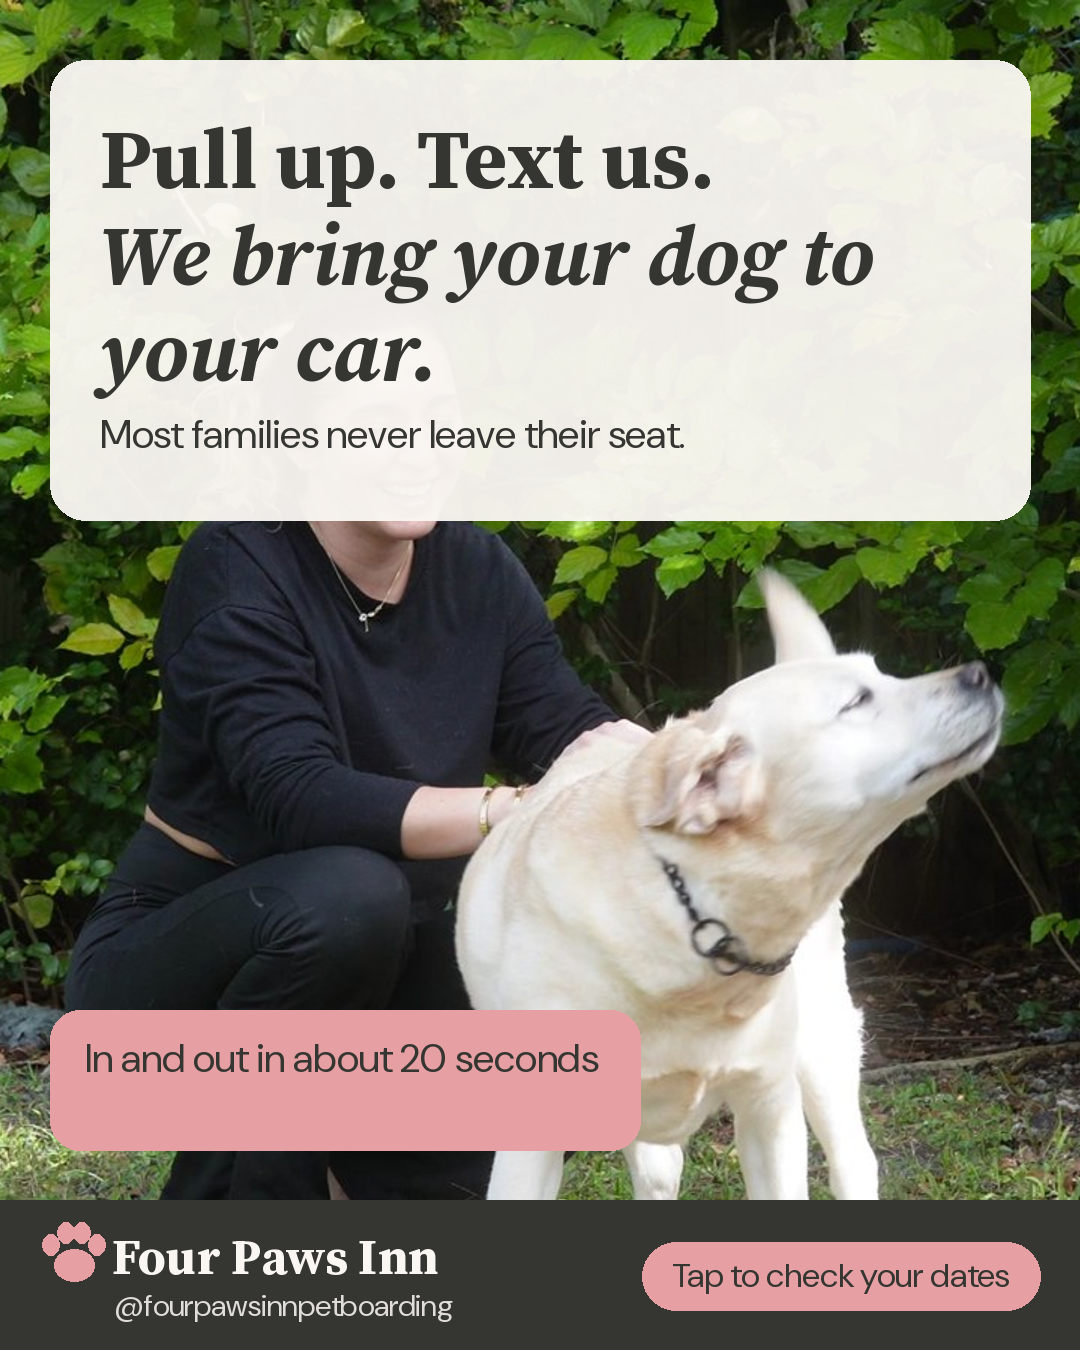
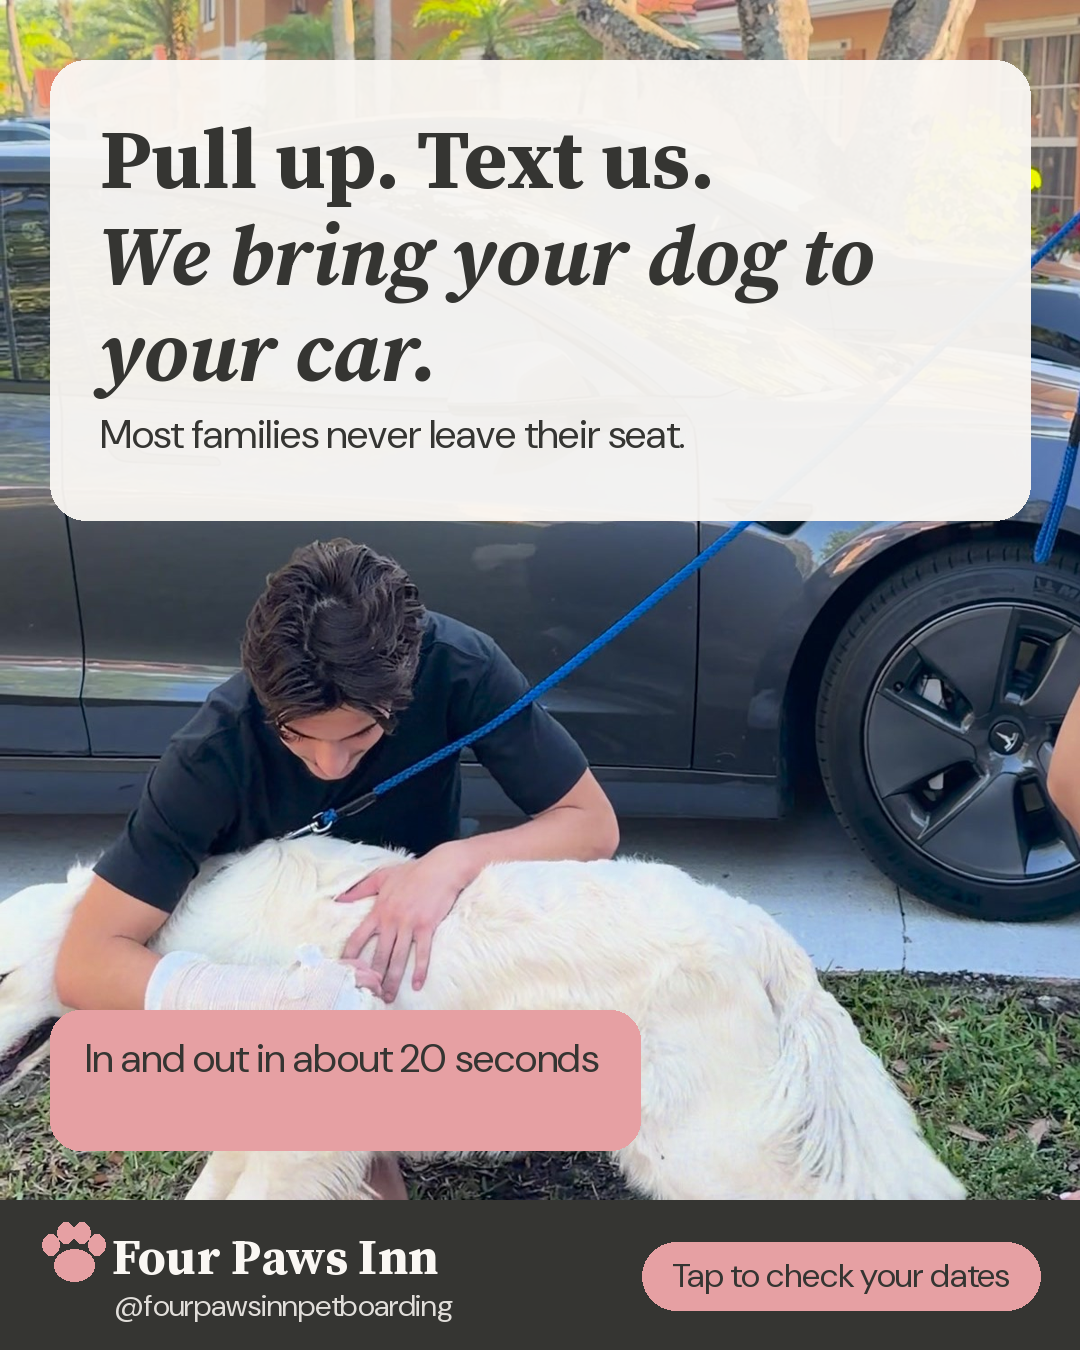
AD37 uses real curbside photo; son approved for ads, AD28 cleared
Claude-Session: https://claude.ai/code/session_01CuiBP4cscBkzuvo8JUyMNz

diff --git a/scripts/static-ads/render3.py b/scripts/static-ads/render3.py
@@ -55,7 +55,7 @@ def ad36():
 
 def ad37():
     """Curbside hand off, real photo."""
-    im = R2.photo("LIB-0023_3.jpg", (0, 0, W, H)); d = ImageDraw.Draw(im, "RGBA")
+    im = R2.photo("LIB-0027_4-curb.jpg", (0, 0, W, H)); d = ImageDraw.Draw(im, "RGBA")
     d.rounded_rectangle([50, 60, W - 50, 520], 36, fill=CREAM + (242,))
     y = left(d, 100, 100, "Pull up. Text us.", serif(84), lh=96)
     y = left(d, 100, y, "We bring your dog to your car.", serif(84, True), maxw=W - 200, lh=96)

diff --git a/fourpawsinn/business-facts.md b/fourpawsinn/business-facts.md
@@ -133,6 +133,7 @@ Business content goes to the Four Paws Inn workspace. Personal-brand content goe
 - Last day policy STAYS (Alex, Oct 17): "Pick up before 10 AM and your last day is free." Say it plainly as how our billing works, in quotes and pricing explanations. Never frame it as a deal, promo or limited offer.
 - No hidden fees (Alex, Oct 17): the price we quote is the price they pay. No add ons for extra play time, toys, or mandatory baths. Other boarding places quote $45 to $55 a night, then add fees for extra play, toys and required baths. Use "no hidden fees" and "the price you see is the price you pay" freely. Never name a competitor.
 - Small groups and slow intros (Alex, Oct 17): we keep groups small on purpose, for shy and selective dogs and so the team builds a one on one bond with every dog. New dogs never go straight into the pack: one on one time with the team first, quiet time to explore, then the group slowly when ready. Say "slow" and "careful", never "safe". Never give a number.
+- Alex's son (young man in the black shirt in our footage, e.g. LIB-0003, LIB-0027 to LIB-0030) is approved for videos and ads (Alex, Oct 17).
 - Meet and greets are optional, never required. Always say so when offering one.
 - Curbside hand off (Alex, Oct 17): clients pull up and text us. We bring everything to the car, usually in about 20 seconds. Most clients never get out of the car at drop off or pick up.
 - Creator codes stay (Alex, Oct 17): partner followers get $25 off or more on a first stay, only through a creator's own code. Never advertise it in Four Paws Inn's own ads or posts.

diff --git a/scripts/static-ads/concepts.md b/scripts/static-ads/concepts.md
@@ -164,6 +164,7 @@ Added: no hidden fees, the price you see is the price you pay, small groups on p
 ## Set 3 replacements (AD36 to AD38), built Oct 17, HELD for Wed Oct 21
 Alex: "Only swap bad performing ad creatives." Renderer: scripts/static-ads/render3.py. Preview: content/ads/statics/2026-10-15/set3-preview.jpg
 - AD36 No hidden fees: two receipts (other places: $50 a night plus extra play, toy time, required baths; ours: $60 a day, nothing added at pick up). No competitor named.
-- AD37 Curbside: "Pull up. Text us. We bring your dog to your car." Most families never leave their seat. In and out in about 20 seconds. Real photo LIB-0023.
+- AD37 Curbside: "Pull up. Text us. We bring your dog to your car." Most families never leave their seat. In and out in about 20 seconds. Real curbside photo LIB-0027 (Alex's son, approved Oct 17; woman cropped out).
 - AD38 Sketchbook slow intro: one on one, quiet time, small group only when ready.
 Swap rule for Oct 21: an ad is "bad" if it spent $35+ with 0 leads, or its CPL is over $34. Only those get replaced, one new ad per bad ad. If no ad is bad, nothing is swapped and these wait.
+- AD28 cleared (Alex, Oct 17: the young man is his son, approved for ads). Can join the next round.
